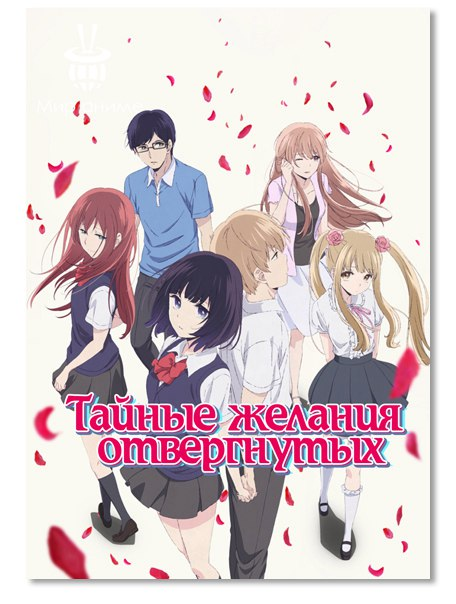
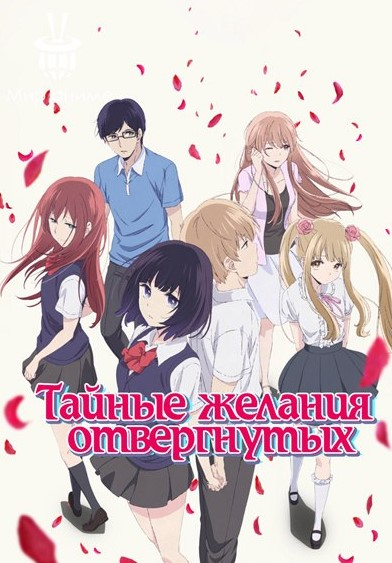
переоформлены изображения

diff --git a/css/main.css b/css/main.css
@@ -2,6 +2,7 @@
 @import url('https://fonts.googleapis.com/css2?family=Antic+Didone&display=swap');
 @import url('https://fonts.googleapis.com/css2?family=Allura&display=swap');
 @import url('https://fonts.googleapis.com/css2?family=Caveat:wght@500&display=swap');
+
 /*
 комментарий
  */
@@ -68,8 +69,10 @@ a:hover {
 }
 
 img {
-    border: 7px ridge #8cd2e9;
-    height: 200px
+    border: 5px double #fef1ea;
+    box-shadow: 5px 5px 10px #1f1f1f;
+    height: 200px;
+    border-radius: 18px;
 }
 
 ul {
